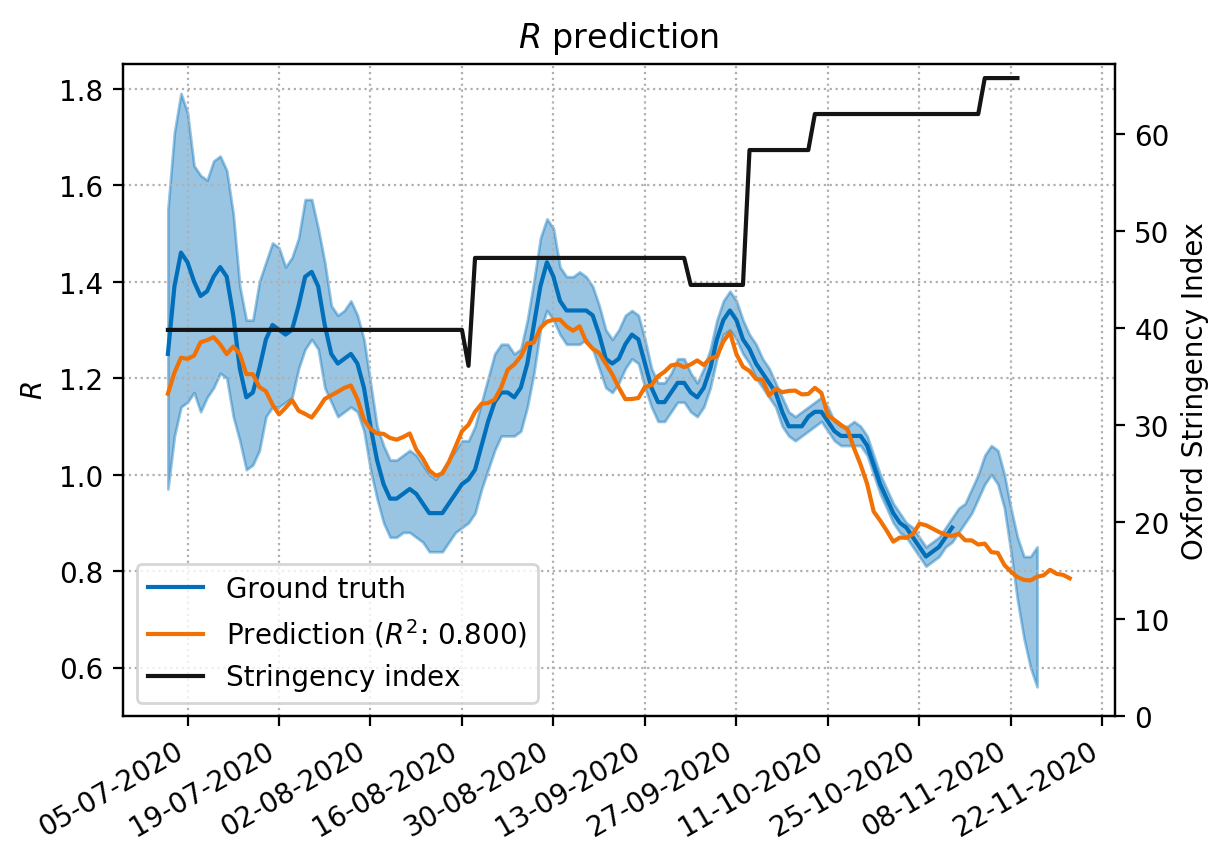
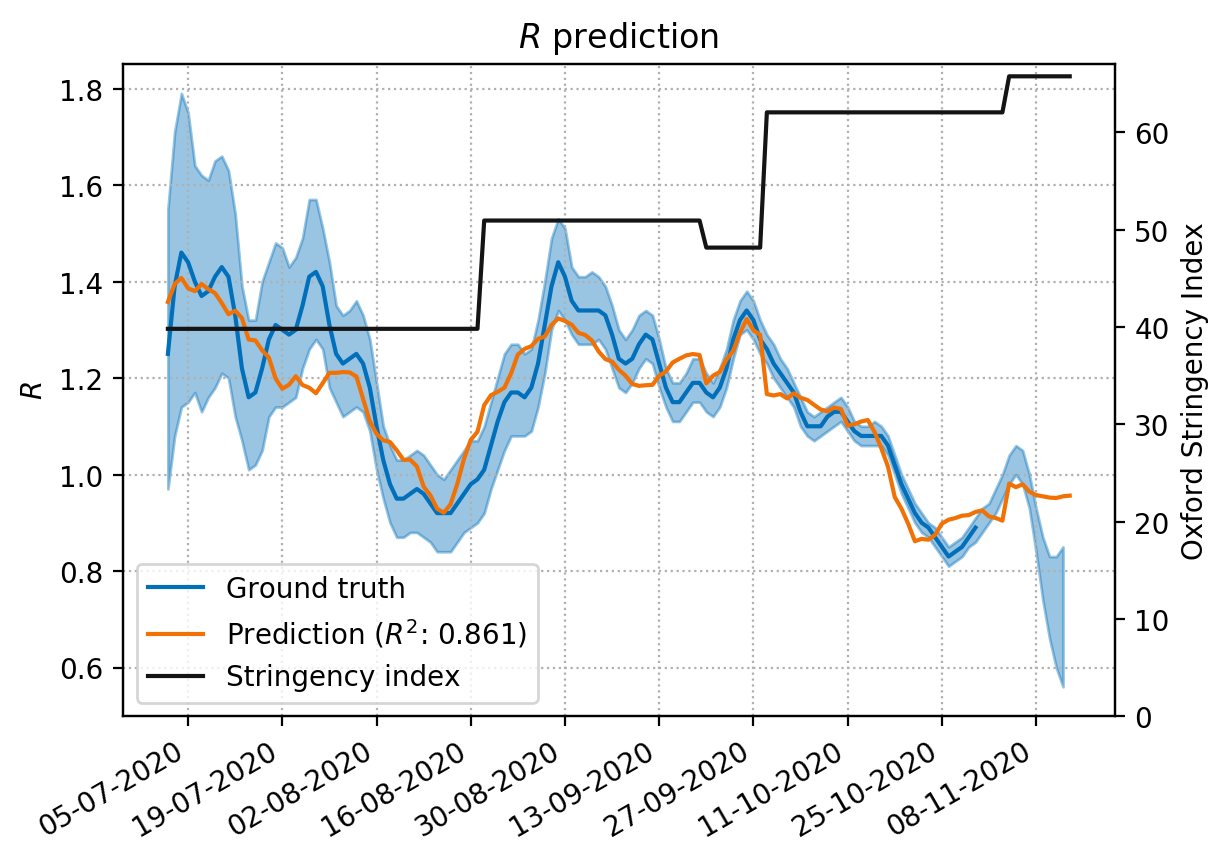
Added government response data to R prediction. R^2 went up from 0.800 to 0.861

diff --git a/model_coronavirus_supression.py b/model_coronavirus_supression.py
@@ -138,18 +138,37 @@ def load_government_response_data():
 		#filter on the netherlands
 		df_response = df_response.loc[df_response['CountryCode'] == 'NLD']
 
+		#get the individual index column names
+		desired_indices = np.array([f'C{x}' for x in range(1, 9)] + ['E1', 'E2'])
+		all_columns = np.array(list(df_response.columns))
+		desired_indices_names = {all_columns[np.flatnonzero(np.core.defchararray.find(all_columns, idx) != -1)[0]]: idx for idx in desired_indices}
+
 		#select desired columns
-		df_response = df_response[['Date', 'StringencyIndex']]
+		df_response = df_response[['Date', 'StringencyIndex'] + list(desired_indices_names.keys())]
+
+		#rename columns to shorter names
+		df_response = df_response.rename(columns = desired_indices_names)
 
 		#read dates
 		df_response['Date'] = pd.to_datetime(df_response['Date'], format = '%Y%m%d')
 		df_response.set_index('Date', inplace = True)
 
+		###extrapolate the last few values
+		#determine nan locs
+		nanloc = df_response.loc[df_response['StringencyIndex'].isnull()].index
+		#and last date of not nan
+		last_date_with_data = df_response.loc[~df_response['StringencyIndex'].isnull()].index[-1]
+
+		#now fill the rows with no data with the latest data
+		for l in nanloc:
+			df_response.loc[l] = df_response.loc[last_date_with_data]
+
+		# save this edited file to a csv
 		df_response.to_csv(nl_fname)
 
 	return df_response
 
-def load_mobility_data(smooth = False, smoothsize = 7, apple_mobility_url_base = 'https://covid19-static.cdn-apple.com/covid19-mobility-data/2021HotfixDev18/v3/en-us/applemobilitytrends-'):
+def load_mobility_data(smooth = False, smoothsize = 7, apple_mobility_url_base = 'https://covid19-static.cdn-apple.com/covid19-mobility-data/2021HotfixDev21/v3/en-us/applemobilitytrends-'):
 	"""
 	Load Apple and Google mobility data. Downloadable from:
 
@@ -1330,20 +1349,19 @@ def estimate_recent_R(enddate_train = '2020-10-25'):
 	df_prevalence, df_R = load_prevalence_R0_data()
 	df_google_mob, df_apple_mob = load_mobility_data(smooth = True)
 	df_sewage = load_sewage_data(smooth = True, shiftdates = True)
-
-	#for the plot as a reference
+	#for the plot as a reference as well as data input
 	df_response = load_government_response_data()
-
-	df_response = df_response.loc[df_response.index > startdate_pred]
+	df_response_plot = df_response.loc[df_response.index > startdate_pred]
 
 	#determine error of R
 	df_R['Rt_abs_error'] = ((df_R['Rt_low'] - df_R['Rt_avg']).abs() + (df_R['Rt_up'] - df_R['Rt_avg']).abs())/2
 
 	#merge datasets
 	# df_mob_R = df_google_mob.merge(df_R, right_index = True, left_index = True)
-	df_mob_R = df_google_mob.join(df_R, how = 'outer')
+	df_mob_R = df_google_mob.join(df_R, how = 'inner')
 	df_mob_R = df_mob_R.join(df_apple_mob, how = 'inner')
-	df_mob_R = df_mob_R.join(df_sewage[['RNA_flow_smooth']], how = 'outer')
+	df_mob_R = df_mob_R.join(df_sewage[['RNA_flow_smooth']], how = 'inner')
+	df_mob_R = df_mob_R.join(df_response, how = 'inner')
 
 	#select date range
 	mask = (df_mob_R.index > '2020-04-01') & (df_mob_R.index <= enddate_train)
@@ -1415,7 +1433,7 @@ def estimate_recent_R(enddate_train = '2020-10-25'):
 			'driving_smooth',
 			'walking_smooth',
 			'transit_smooth'
-		]
+		] + list(df_response.columns)
 		#get the multiple parameters into a single array
 		# X_train = np.zeros((len(df_train), len(best_correlating_metrics)))
 		# for i in range(len(best_correlating_metrics)):
@@ -1485,7 +1503,9 @@ def estimate_recent_R(enddate_train = '2020-10-25'):
 		ln2 = ax1.plot(df_pred.index, Y_pred, label = f'Prediction ($R^2$: {r_squared:0.03f})', color = betterorange)
 
 		#also plot government response
-		ln3 = ax2.plot(df_response.index, df_response['StringencyIndex'], label = 'Stringency index', color = betterblack)
+		#limit to days with prediction data
+		df_response_plot = df_response_plot.loc[df_response_plot.index <= df_pred.index[-1]]
+		ln3 = ax2.plot(df_response_plot.index, df_response_plot['StringencyIndex'], label = 'Stringency index', color = betterblack)
 
 		ax1.grid(linestyle = ':')
 		# ax.legend(loc = 'best')
@@ -1718,9 +1738,9 @@ def main():
 
 	# plot_superspreader_events()
 
-	# estimate_recent_R(enddate_train = '2020-10-28')
+	estimate_recent_R(enddate_train = '2020-10-28')
 
-	estimate_recent_prevalence(enddate_train = '2020-11-01')
+	# estimate_recent_prevalence(enddate_train = '2020-11-01')
 
 	# plot_prevalence_R()
 
@@ -1735,7 +1755,6 @@ def main():
 	# stringency_R_correlation()
 
 	# plot_individual_data()
-
 
 if __name__ == '__main__':
 	main()

diff --git a/README.md b/README.md
@@ -8,6 +8,7 @@
 #### RIVM data
 Number of contagious people (prevalence): [link](https://data.rivm.nl/covid-19/COVID-19_prevalentie.json)
 Number of positively tested people in the Netherlands, updated each day at 10:00 CEST: [link](https://data.rivm.nl/covid-19/COVID-19_aantallen_gemeente_per_dag.csv)
+Each case of positive test, with first day of illness, age etc: [link](https://data.rivm.nl/geonetwork/srv/dut/catalog.search#/metadata/2c4357c8-76e4-4662-9574-1deb8a73f724)
 Reproductive number: [link](https://data.rivm.nl/covid-19/COVID-19_reproductiegetal.json)
 
 More raw data: [link](https://coronadashboard.rijksoverheid.nl/verantwoording)
@@ -16,12 +17,17 @@ Weekly update [link](https://www.rivm.nl/coronavirus-covid-19/actueel) with:
 - Number of tests performed per week
 - Infection context, like at home, at work, pub etc.
 
-#### Other data
+#### Other Dutch data
 A huge list of data sources: [link](https://www.databronnencovid19.nl/)
 
 Predictions: [link](https://covid19.healthdata.org/netherlands)
 
 NICE intensive care data: [link](https://www.databronnencovid19.nl/Bron?naam=Nationale-Intensive-Care-Evaluatie)
+
+Corona Locator, with a plethora of data: [link](https://bddataplan.nl/corona/)
+Up to date clusters: [link](https://coronalocator.knack.com/corona-locator#cluster-meldingen/?view_670_per_page=5000&view_670_page=1&view_641_0_filters=%5B%7B%22value%22%3A%22%22%2C%22text%22%3A%22Alles%22%2C%22operator%22%3A%22is%20not%20blank%22%2C%22field%22%3A%22field_563%22%7D%5D&view_641_1_filters=%5B%7B%22value%22%3A%22%22%2C%22text%22%3A%22Alle%22%2C%22operator%22%3A%22is%20not%20blank%22%2C%22field%22%3A%22field_563%22%7D%5D)
+
+#### Other international data
 
 Superspreader event database: [article](https://kmswinkels.medium.com/covid-19-superspreading-events-database-4c0a7aa2342b), [Google docs database](https://docs.google.com/spreadsheets/d/1c9jwMyT1lw2P0d6SDTno6nHLGMtpheO9xJyGHgdBoco/edit#gid=1812932356)
 
